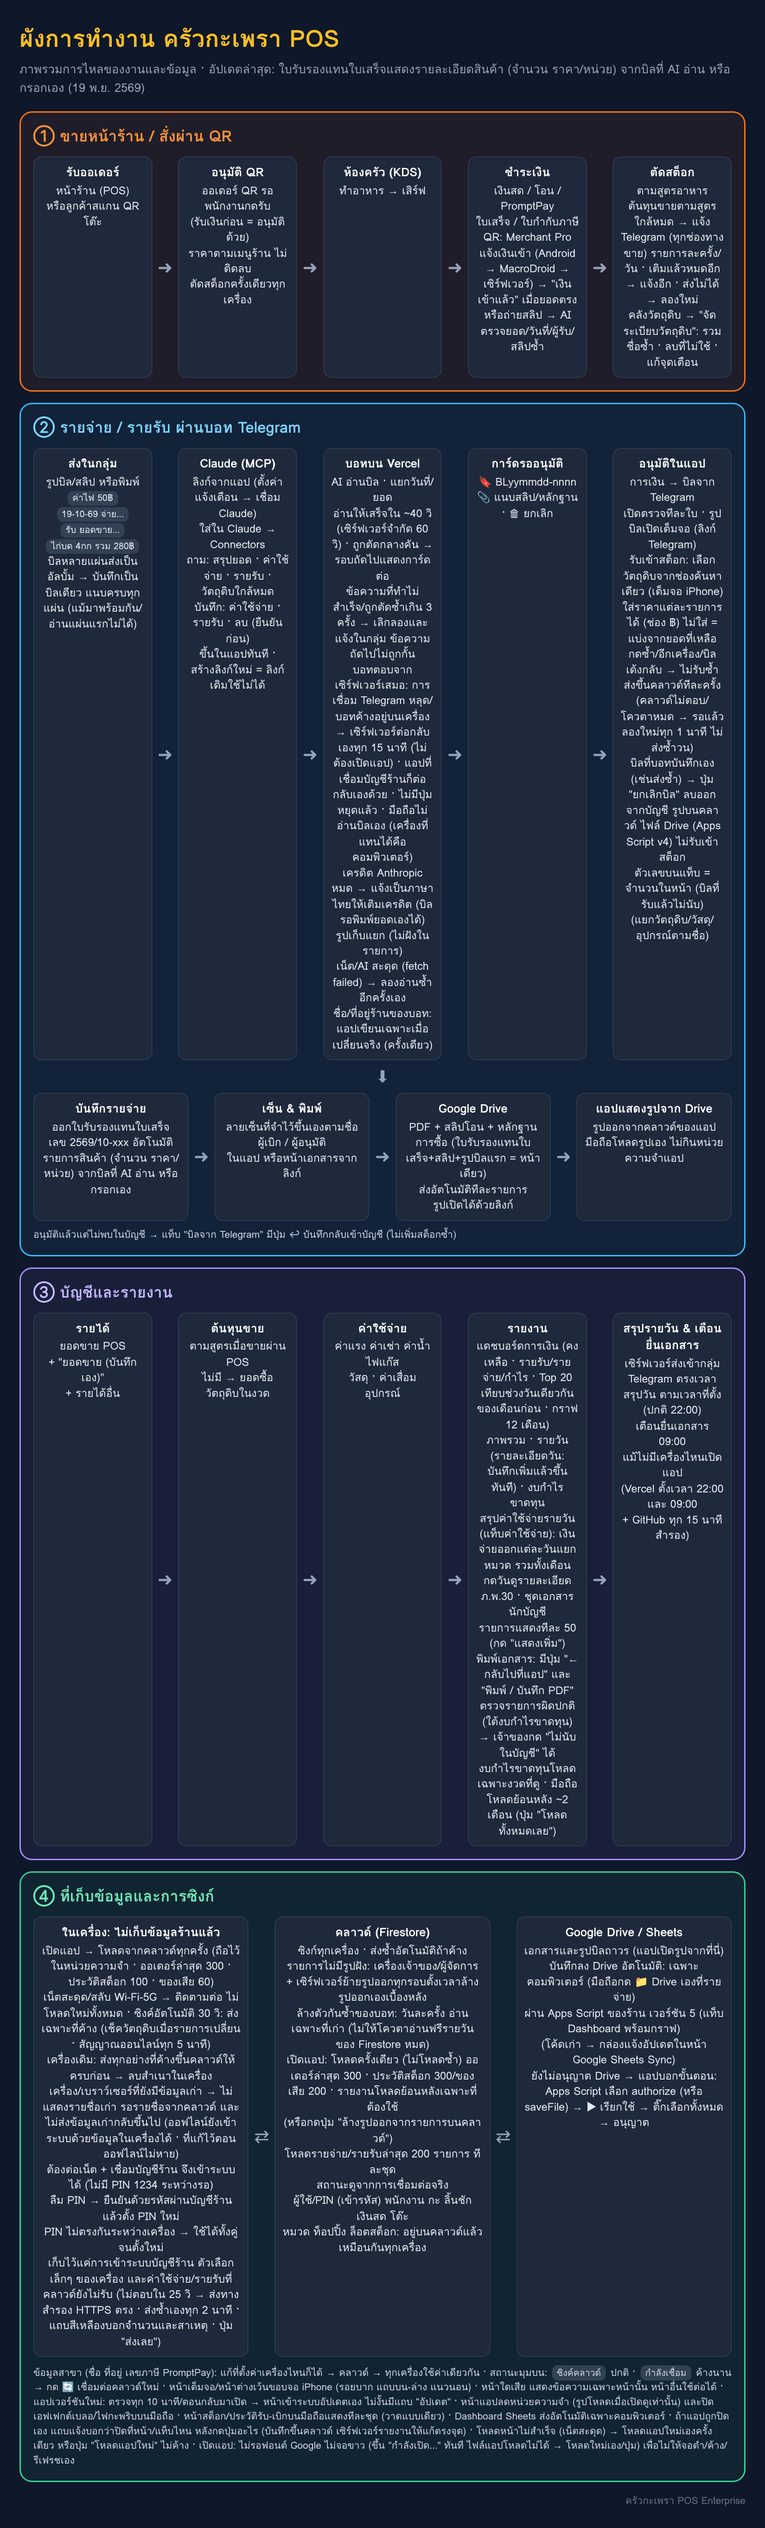
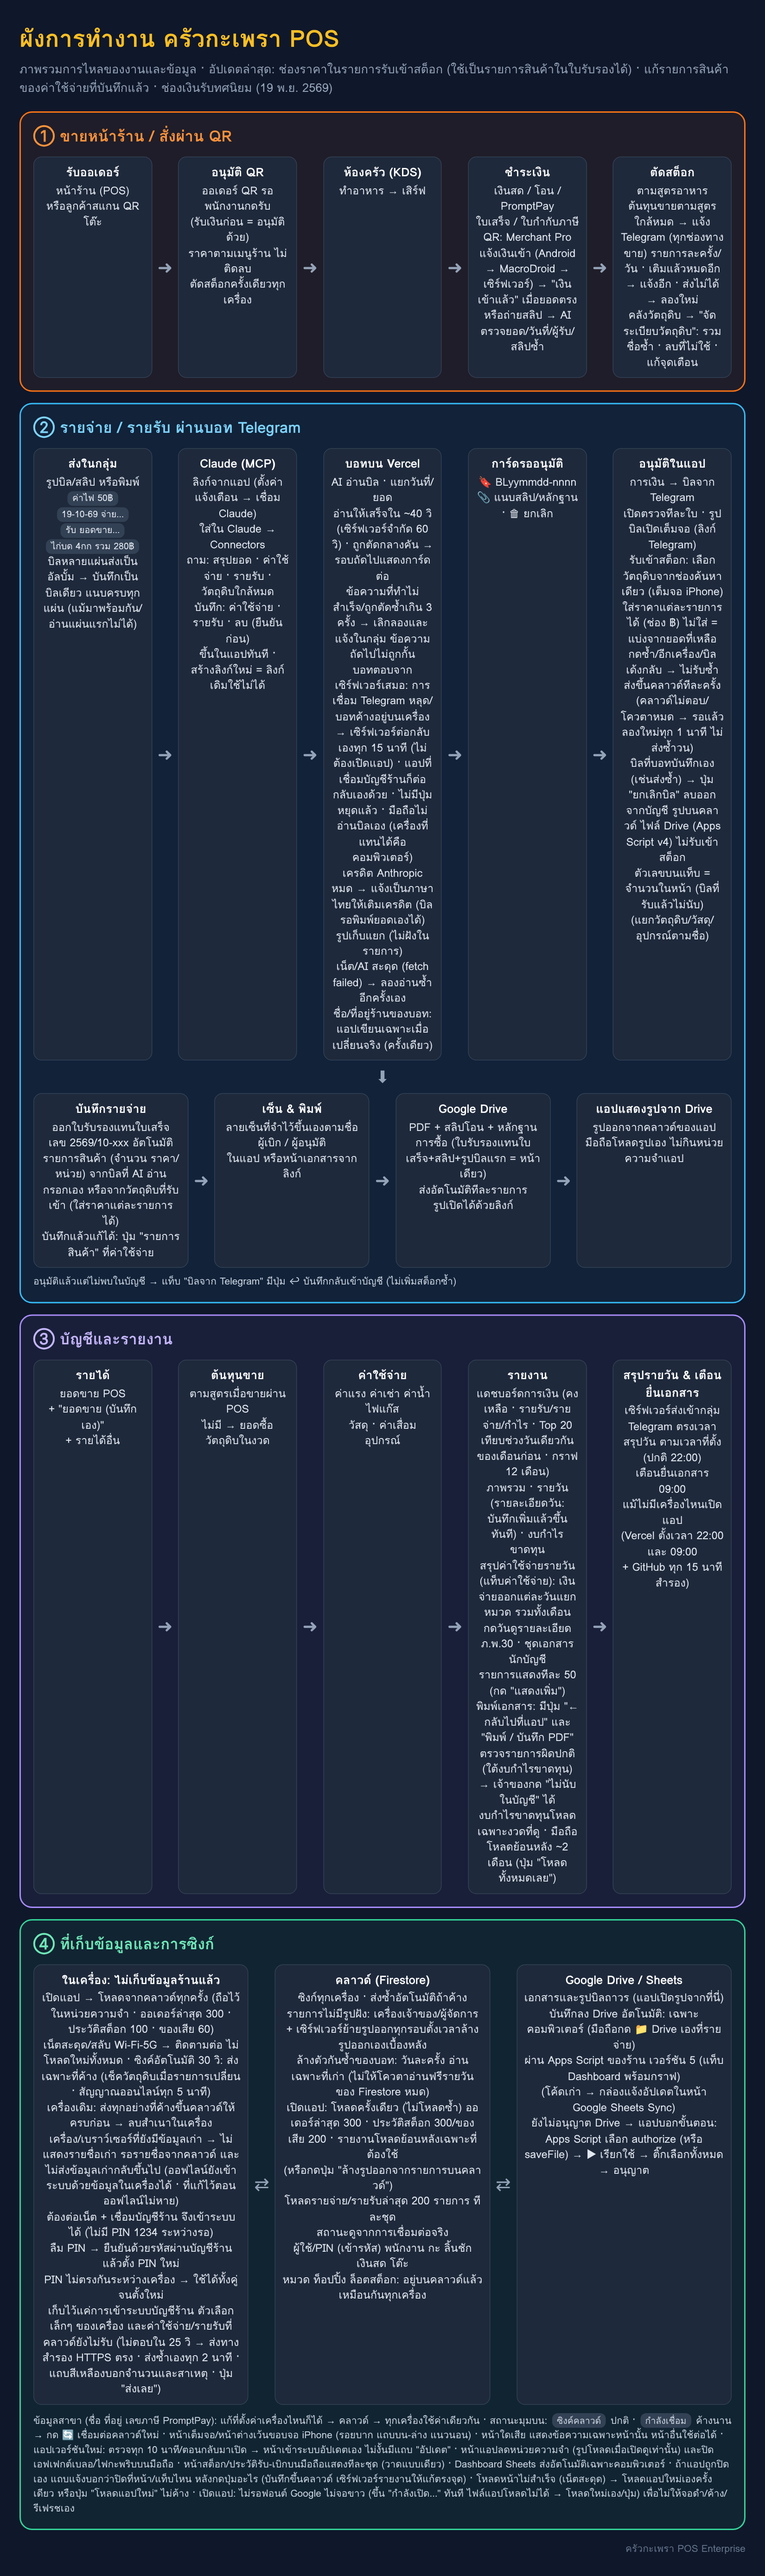
Prices on stock lines, item lines from them, item lines for saved expenses, decimal amounts
- Each stock line in the expense form takes a price; priced lines keep
  their price and the rest of the bill is shared as before, the prices'
  total can be used as the amount (or is, when none was typed).
- With no lines typed, the stock lines become the expense's item lines
  (name, quantity, unit price, amount) for the ใบรับรองแทนใบเสร็จ.
- A saved expense's lines can be added or edited (รายการสินค้า button).
- The amount field took whole numbers only (693.25 stopped the form
  without a word) and an empty amount was refused silently: decimals are
  taken and a missing title or amount says so.

Claude-Session: https://claude.ai/code/session_01Gq3UvYW4wv3hsVCXoh5wxy

diff --git a/src/components/accounting/AccountingView.tsx b/src/components/accounting/AccountingView.tsx
@@ -548,6 +548,8 @@ export const AccountingView: React.FC = () => {
     packageQty?: number;
     packageUnit?: string;
     packageSize?: number;
+    /** Price paid for this line (baht); empty = a share of the rest of the bill */
+    price?: number;
   }>>([]);
 
   const openAddIncomeModal = (prefilledDate?: string | React.MouseEvent) => {
@@ -793,6 +795,7 @@ export const AccountingView: React.FC = () => {
       packageQty?: number;
       packageUnit?: string;
       packageSize?: number;
+      price?: number;
     }>,
     value?: string | number | boolean
   ) => {
@@ -1282,13 +1285,24 @@ export const AccountingView: React.FC = () => {
   // Handlers
   const handleCreateExpense = (e: React.FormEvent) => {
     e.preventDefault();
-    if (!expTitle.trim() || expAmount <= 0) return;
+    // Prices typed on the stock lines: their total is the amount when none was typed
+    const stockLines = expAutoUpdateStock ? expStockEntries.filter(x => x.ingredientId && x.quantity > 0) : [];
+    const pricedTotal = round2(stockLines.reduce((sum, x) => sum + (Number(x.price) || 0), 0));
+    const amountNow = expAmount > 0 ? expAmount : pricedTotal;
+    if (!expTitle.trim() || amountNow <= 0) {
+      setExpenseFormError(!expTitle.trim() ? 'ใส่ชื่อรายการก่อน' : 'ใส่จำนวนเงิน (หรือราคาของแต่ละรายการวัตถุดิบ)');
+      return;
+    }
+    if (amountNow !== expAmount) setExpAmount(amountNow);
+    const expAmountFinal = amountNow;
+    // What was bought: the lines typed, else the stock lines (name, quantity, price)
+    const typedItems = draftsToItems(expItems);
 
     let vatAmount = 0;
-    let netAmount = expAmount;
+    let netAmount = expAmountFinal;
     if (expIncludeVat) {
-      vatAmount = vatInside(expAmount, vatRate);
-      netAmount = round2(expAmount - vatAmount);
+      vatAmount = vatInside(expAmountFinal, vatRate);
+      netAmount = round2(expAmountFinal - vatAmount);
     }
 
     const chosenDate = expDate || getLocalDateString();
@@ -1300,7 +1314,7 @@ export const AccountingView: React.FC = () => {
       date: chosenDate,
       category: expCategory,
       title: expTitle.trim(),
-      amount: expAmount,
+      amount: expAmountFinal,
       includeVat: expIncludeVat && !expVat36,
       paidFrom: expPaidFrom,
       vat36: vatRegistered && expVat36 ? true : undefined,
@@ -1308,7 +1322,21 @@ export const AccountingView: React.FC = () => {
       netAmount,
       refNumber: expRefNumber.trim(),
       note: expNote.trim(),
-      ...(draftsToItems(expItems).length ? { items: draftsToItems(expItems) } : {}),
+      ...(typedItems.length
+        ? { items: typedItems }
+        : stockLines.length
+          ? {
+              items: (() => {
+                const shares = splitBillCost(stockLines.map(x => ({ ingredientId: x.ingredientId, quantity: x.quantity, lineAmount: x.price })), ingredients, expAmountFinal);
+                return stockLines.map((x, i) => {
+                  const ing = ingredients.find(g => g.id === x.ingredientId);
+                  const pkg = x.usePackage && x.packageQty && x.packageUnit;
+                  const qty = pkg ? x.packageQty! : x.quantity;
+                  return { name: ing?.name || 'วัตถุดิบ', quantity: qty, unit: pkg ? x.packageUnit : ing?.unit, unitPrice: qty > 0 ? round2(shares[i] / qty) : undefined, amount: shares[i] };
+                }).filter(it => it.amount > 0);
+              })()
+            }
+          : {}),
       receiptImage: expReceiptImage || undefined,
       receiptImageName: expReceiptName || undefined,
       purchaseImages: expPurchaseImages.length ? expPurchaseImages : undefined,
@@ -1330,7 +1358,7 @@ export const AccountingView: React.FC = () => {
     // Copies of the documents into Google Drive, in the background
     if (expenseDrive.enabled && hasExpenseDocs(savedExpense)) void expenseDrive.save(savedExpense);
 
-    setSaveExpenseSuccess(`บันทึกค่าใช้จ่าย "${expTitle.trim()}" จำนวน ฿${money(expAmount)} (${chosenDate}) เรียบร้อยแล้ว`);
+    setSaveExpenseSuccess(`บันทึกค่าใช้จ่าย "${expTitle.trim()}" จำนวน ฿${money(expAmountFinal)} (${chosenDate}) เรียบร้อยแล้ว`);
     setTimeout(() => {
       setSaveExpenseSuccess(null);
     }, 5000);
@@ -1340,8 +1368,8 @@ export const AccountingView: React.FC = () => {
       if (validEntries.length > 0) {
         // Stock is valued at cost: before VAT when the shop claims input VAT back. The bill is
         // shared by the items' value at their current cost, not equally.
-        const costBasis = vatRegistered && expIncludeVat ? expAmount - vatInside(expAmount, vatRate) : expAmount;
-        const shares = splitBillCost(validEntries.map(e => ({ ingredientId: e.ingredientId, quantity: e.quantity })), ingredients, costBasis);
+        const costBasis = vatRegistered && expIncludeVat ? expAmountFinal - vatInside(expAmountFinal, vatRate) : expAmountFinal;
+        const shares = splitBillCost(validEntries.map(e => ({ ingredientId: e.ingredientId, quantity: e.quantity, lineAmount: e.price && e.price > 0 ? (vatRegistered && expIncludeVat ? e.price - vatInside(e.price, vatRate) : e.price) : undefined })), ingredients, costBasis);
         validEntries.forEach((entry, idx) => {
           recordIngUsage(entry.ingredientId, 1);
           const matchedIng = ingredients.find(i => i.id === entry.ingredientId);
@@ -3783,6 +3811,7 @@ export const AccountingView: React.FC = () => {
             </div>
 
             <form onSubmit={handleCreateExpense} className="space-y-3 text-xs">
+              {expenseFormError && <div role="alert" className="p-2.5 rounded-xl border border-rose-600/60 bg-rose-950/40 text-rose-200 font-bold">{expenseFormError}</div>}
               <div className="grid grid-cols-1 sm:grid-cols-2 gap-3">
                 <div>
                   <label className="block text-slate-400 mb-1 font-medium">หมวดหมู่ค่าใช้จ่าย *</label>
@@ -3863,7 +3892,9 @@ export const AccountingView: React.FC = () => {
                   <label className="block text-slate-400 mb-1">จำนวนเงิน (บาท) *</label>
                   <input
                     type="number"
-                    required
+                    inputMode="decimal"
+                    step="any"
+                    min="0"
                     placeholder="0.00"
                     value={expAmount || ''}
                     onChange={e => setExpAmount(Number(e.target.value))}
@@ -4000,6 +4031,20 @@ export const AccountingView: React.FC = () => {
                     <div className="flex items-center justify-between gap-2 flex-wrap">
                       <span className="text-[10px] font-bold text-slate-400">
                         รายการวัตถุดิบที่ต้องการรับเข้าคลัง:
+                        {(() => {
+                          const priced = round2(expStockEntries.reduce((sum, x) => sum + (Number(x.price) || 0), 0));
+                          if (!priced) return null;
+                          return (
+                            <span className={`ml-1 ${Math.abs(priced - expAmount) < 0.01 ? 'text-emerald-300' : 'text-amber-300'}`}>
+                              รวมราคาที่ใส่ ฿{money(priced)}
+                              {expAmount !== priced && (
+                                <button type="button" onClick={() => setExpAmount(priced)} className="ml-1 underline">
+                                  ใช้เป็นยอดเงิน
+                                </button>
+                              )}
+                            </span>
+                          );
+                        })()}
                       </span>
                       <div className="flex items-center gap-2">
                         <button
@@ -4294,6 +4339,19 @@ export const AccountingView: React.FC = () => {
                                   </div>
                                 </div>
                               )}
+                              <div className="flex items-center gap-2 pt-1">
+                                <label className="text-[10px] font-bold text-slate-400 shrink-0">ราคา (บาท):</label>
+                                <input
+                                  type="number"
+                                  inputMode="decimal"
+                                  min="0"
+                                  step="any"
+                                  value={entry.price ?? ''}
+                                  placeholder="ไม่ใส่ = แบ่งจากยอดบิล"
+                                  onChange={e => handleUpdateExpStockEntry(entry.id, { price: e.target.value === '' ? undefined : Number(e.target.value) })}
+                                  className="flex-1 min-w-0 bg-slate-900 border border-slate-800 rounded-lg px-2.5 py-1.5 text-amber-200 font-mono text-xs focus:border-amber-500 focus:outline-none"
+                                />
+                              </div>
                             </div>
                           </div>
                         );

diff --git a/src/components/accounting/ExpenseDocActions.tsx b/src/components/accounting/ExpenseDocActions.tsx
@@ -1,5 +1,6 @@
 import React, { useCallback, useEffect, useState } from 'react';
-import { CloudUpload, ExternalLink, FileSignature, Image as ImageIcon, Loader2, PenLine } from 'lucide-react';
+import { CloudUpload, ExternalLink, FileSignature, Image as ImageIcon, ListPlus, Loader2, PenLine } from 'lucide-react';
+import { draftsToItems, emptyItem, ExpenseItemsEditor, type ItemDraft } from './ExpenseItemsEditor';
 import { usePOS } from '../../context/POSContext';
 import { useKeyedList } from '../../hooks/useKeyedList';
 import { SavedSignature, SignaturePad } from '../common/SignaturePad';
@@ -91,6 +92,23 @@ export const ExpenseDocActions: React.FC<{ expense: Expense; drive: ReturnType<t
   const { settings, currentBranch, updateExpense, permissions, expenses, currentUser } = usePOS();
   const signatures = drive.signatures;
   const [signing, setSigning] = useState<'spender' | 'approver' | null>(null);
+  // รายละเอียดสินค้า of a saved expense (shown on its ใบรับรองแทนใบเสร็จ)
+  const [editingItems, setEditingItems] = useState<ItemDraft[] | null>(null);
+  const openItems = () =>
+    setEditingItems(
+      (e.items || []).length
+        ? e.items!.map(i => ({ name: i.name, quantity: i.quantity ? String(i.quantity) : '', unit: i.unit || '', unitPrice: i.unitPrice ? String(i.unitPrice) : '', amount: String(i.amount) }))
+        : [emptyItem()]
+    );
+  const saveItems = () => {
+    if (!editingItems) return;
+    const items = draftsToItems(editingItems);
+    const next: Expense = { ...e, items: items.length ? items : undefined };
+    updateExpense(e.id, { items: items.length ? items : undefined });
+    setEditingItems(null);
+    // The copy in Drive shows the new lines
+    if (drive.enabled && saved) void drive.save(next);
+  };
   const saved = e.driveFiles?.[0];
   const sr = e.substituteReceipt;
   // Bought without a tax invoice (e.g. from the Telegram bot) and no ใบรับรองแทนใบเสร็จ yet
@@ -165,6 +183,24 @@ export const ExpenseDocActions: React.FC<{ expense: Expense; drive: ReturnType<t
           onSave={(d, r) => sign(signing, d, r)}
           onClose={() => setSigning(null)}
         />
+      )}
+      {(sr || canIssue) && (
+        <button type="button" onClick={openItems} title="รายละเอียดสินค้าในใบรับรองแทนใบเสร็จ" className="h-8 px-2 rounded-lg border border-slate-600 text-slate-200 text-[11px] inline-flex items-center gap-1">
+          <ListPlus className="w-3.5 h-3.5" /> รายการสินค้า{e.items?.length ? ` (${e.items.length})` : ''}
+        </button>
+      )}
+      {editingItems && (
+        <div className="fixed inset-0 z-[80] bg-slate-950/85 flex items-end sm:items-center justify-center p-2" role="dialog" aria-modal="true" aria-label="รายละเอียดสินค้า">
+          <div className="w-full max-w-lg max-h-[90vh] overflow-y-auto bg-slate-900 border border-slate-700 rounded-2xl p-4 space-y-3 text-xs">
+            <div className="font-bold text-sm text-slate-100">รายละเอียดสินค้า · {e.title}</div>
+            <div className="text-slate-400">ยอดจ่าย ฿{e.amount.toFixed(2)} · {e.date}</div>
+            <ExpenseItemsEditor drafts={editingItems} onChange={setEditingItems} amount={e.amount} />
+            <div className="flex gap-2 pt-1">
+              <button type="button" onClick={() => setEditingItems(null)} className="flex-1 h-11 rounded-xl border border-slate-700 font-bold">ยกเลิก</button>
+              <button type="button" onClick={saveItems} className="flex-1 h-11 rounded-xl bg-emerald-600 text-white font-bold">บันทึก</button>
+            </div>
+          </div>
+        </div>
       )}
       {e.substituteReceipt && (
         <button

diff --git a/docs/workflow/flow.html b/docs/workflow/flow.html
@@ -17,7 +17,7 @@ h1{margin:0 0 4px;font-size:34px;color:#fbbf24}.sub{color:#94a3b8;font-size:17px
 .foot{color:#64748b;font-size:14px;margin-top:6px;text-align:right}
 </style></head><body>
 <h1>ผังการทำงาน ครัวกะเพรา POS</h1>
-<div class="sub">ภาพรวมการไหลของงานและข้อมูล · อัปเดตล่าสุด: ใบรับรองแทนใบเสร็จแสดงรายละเอียดสินค้า (จำนวน ราคา/หน่วย) จากบิลที่ AI อ่าน หรือกรอกเอง (19 พ.ย. 2569)</div>
+<div class="sub">ภาพรวมการไหลของงานและข้อมูล · อัปเดตล่าสุด: ช่องราคาในรายการรับเข้าสต็อก (ใช้เป็นรายการสินค้าในใบรับรองได้) · แก้รายการสินค้าของค่าใช้จ่ายที่บันทึกแล้ว · ช่องเงินรับทศนิยม (19 พ.ย. 2569)</div>
 
 <div class="lane pos"><h2>① ขายหน้าร้าน / สั่งผ่าน QR</h2>
 <div class="row">
@@ -38,7 +38,7 @@ h1{margin:0 0 4px;font-size:34px;color:#fbbf24}.sub{color:#94a3b8;font-size:17px
 </div>
 <div class="down">⬇</div>
 <div class="row">
-<div class="box"><b>บันทึกรายจ่าย</b>ออกใบรับรองแทนใบเสร็จ<br>เลข 2569/10-xxx อัตโนมัติ<br>รายการสินค้า (จำนวน ราคา/หน่วย) จากบิลที่ AI อ่าน หรือกรอกเอง</div><div class="ar">➜</div>
+<div class="box"><b>บันทึกรายจ่าย</b>ออกใบรับรองแทนใบเสร็จ<br>เลข 2569/10-xxx อัตโนมัติ<br>รายการสินค้า (จำนวน ราคา/หน่วย) จากบิลที่ AI อ่าน กรอกเอง หรือจากวัตถุดิบที่รับเข้า (ใส่ราคาแต่ละรายการได้)<br>บันทึกแล้วแก้ได้: ปุ่ม "รายการสินค้า" ที่ค่าใช้จ่าย</div><div class="ar">➜</div>
 <div class="box"><b>เซ็น &amp; พิมพ์</b>ลายเซ็นที่จำไว้ขึ้นเองตามชื่อ<br>ผู้เบิก / ผู้อนุมัติ<br>ในแอป หรือหน้าเอกสารจากลิงก์</div><div class="ar">➜</div>
 <div class="box"><b>Google Drive</b>PDF + สลิปโอน + หลักฐานการซื้อ (ใบรับรองแทนใบเสร็จ+สลิป+รูปบิลแรก = หน้าเดียว)<br>ส่งอัตโนมัติทีละรายการ<br>รูปเปิดได้ด้วยลิงก์</div><div class="ar">➜</div>
 <div class="box"><b>แอปแสดงรูปจาก Drive</b>รูปออกจากคลาวด์ของแอป<br>มือถือโหลดรูปเอง ไม่กินหน่วยความจำแอป</div>
